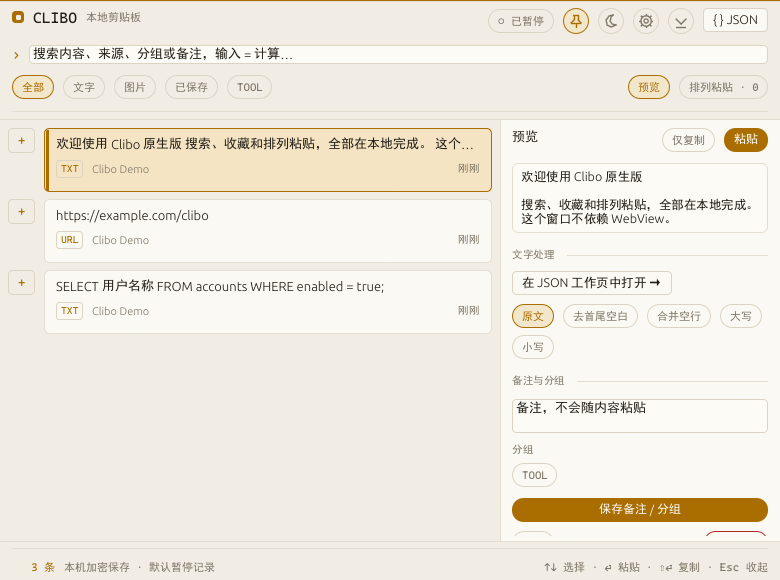
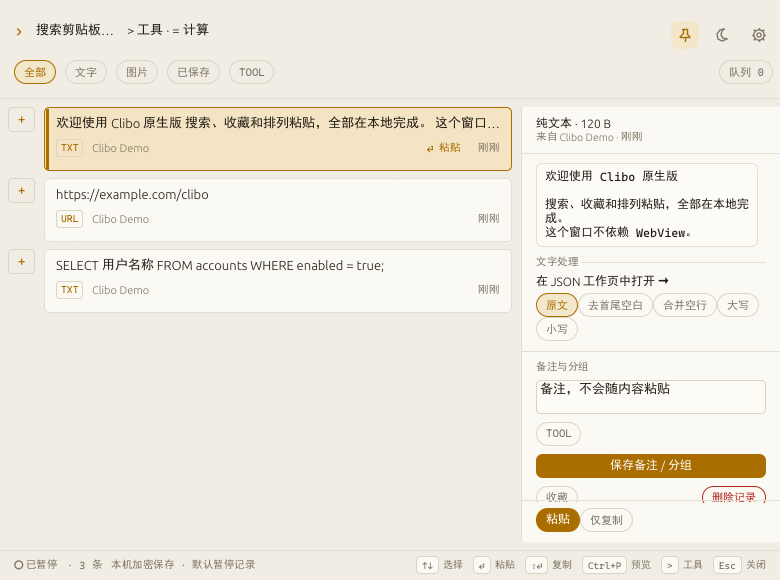
Update screenshots and README for new UI

diff --git a/README.en.md b/README.en.md
@@ -16,9 +16,10 @@ Current version: **0.5.0 native preview**.
 - Text tools for trimming whitespace, merging blank lines, and changing case.
 - A JSON workspace with validation, formatting, tree expand / collapse, nested-field search, and compact / formatted copy.
 - Global shortcuts, system tray, pinned panels, focus-loss hiding, and single-instance behavior.
+- A launcher (Alt + S) that discovers Start Menu apps and searches custom entries, files, folders, and browser bookmarks.
 - A temporary calculator entered by typing = in the search box.
 - Timestamp conversion for seconds / milliseconds, date-time values, UTC offsets, and batches.
-- Light / dark themes and image thumbnail previews.
+- Light / dark appearance with amber / blue-gray themes, image thumbnail previews, and a Ctrl+P preview drawer.
 - Manual history backup and restore, with a safety backup created before restoration.
 - Windows login startup without administrator privileges; Clibo can run in the tray after sign-in.
 
@@ -26,11 +27,16 @@ Current version: **0.5.0 native preview**.
 
 <p align="center">
   <img src="docs/images/clipboard.png" alt="Clipboard history" width="32%">
-  <img src="docs/images/calculator.png" alt="Calculator" width="32%">
   <img src="docs/images/json-format.png" alt="JSON formatting workspace" width="32%">
+  <img src="docs/images/launcher.png" alt="Launcher" width="32%">
+</p>
+<p align="center">
+  <img src="docs/images/calculator.png" alt="Calculator" width="32%">
+  <img src="docs/images/timestamp.png" alt="Timestamp conversion" width="32%">
+  <img src="docs/images/settings.png" alt="Preferences" width="32%">
 </p>
 
-Clipboard history, the temporary calculator, and the JSON workspace are native views; processing stays local.
+The clipboard panel, JSON workspace, launcher, calculator, timestamp converter, and preferences are native views; processing stays local.
 
 ## Download
 
@@ -42,7 +48,35 @@ Windows x64 users can download the [Clibo 0.5.0](https://github.com/wushuang3625
 2. Copy text, links, or images in any application.
 3. Press Ctrl + Shift + V to open Clibo.
 4. Search and select an entry. Press Enter to try pasting, or Shift + Enter to copy only.
-5. Change the panel and queue shortcuts in Preferences.
+5. Type > in the search box to enter command mode and open the JSON workspace, timestamp converter, launcher, or preferences.
+6. Change the panel and queue shortcuts in Preferences.
+
+## Launcher
+
+Press **Alt + S** to open the compact floating search box; you can also type > in the panel search box and pick “Launcher”, or use the tray menu. Press Alt + S or Esc again to dismiss it; clicking outside also hides it when the window is not pinned. The launcher is implemented natively by Clibo: it does not require Flow Launcher and does not include its plugin marketplace or third-party plugin runtime.
+
+| Input | Function |
+| --- | --- |
+| Name, keyword | Search apps, custom entries, files, and bookmarks; fuzzy English matching, Chinese substring matching, most recently used first |
+| `app name` | Search apps only |
+| `file keyword` | Search files / folders; optional Everything query |
+| Full path, `~`, `%USERPROFILE%` | Open a path, list matching children |
+| `bm name` | Search local Chrome, Edge, Brave, and Firefox bookmarks |
+| `g keyword` / `b keyword` / `bd keyword` | Google / Bing / Baidu web search; the browser opens only after execution |
+| `= 12*3` or `12*3` | Local calculation; Enter copies the result |
+| `sys keyword` | Windows settings, Task Manager, Recycle Bin, lock, shutdown, restart, and Clibo built-in tools |
+| `https://example.com` | Open the URL |
+
+- Select with ↑ / ↓ or Tab / Shift+Tab, open with Enter; Ctrl+Enter opens the containing folder, Ctrl+Shift+Enter requests an administrator launch.
+- Right-click a result to copy its path / URL, open the containing folder, or edit / delete a custom entry. Shutdown and restart are confirmed again in the UI.
+- Click the gear at the top right or press Ctrl+I to manage custom entries, search directories, and bookmark toggles. Custom entries, recents, search scope, and the Alt+S hotkey are stored in the local encrypted settings.
+- Files index the Desktop, Documents, and Downloads folders by default; up to 20 extra directories can be added. Each directory scans at most 12,000 items, 10 levels deep, for about 3 seconds, skipping hidden directories, links, and common build directories; limits are reported in the management page. It is not a full-disk content index.
+- Apps are discovered from the current user's and the common Start Menu. Apps load first in the background, then files and bookmarks; F5 refreshes the index, and file changes are not watched in real time.
+- Everything is optional: install and run Everything, put the official `es.exe` on PATH or in the Everything install directory, and `file` queries will use it as well. If the service is unavailable or times out, a notice appears and local results remain. It does not depend on Flow Launcher.
+- Alt+S can be changed in Clibo preferences; conflicts are reported when occupied, and other shortcuts keep working.
+- Development run: `cargo run --manifest-path native/Cargo.toml -- --launcher` (exit any existing instance sharing the data directory first).
+
+macOS keeps the application directory and local file search paths; Windows system actions and browser bookmark discovery are enabled on Windows only, and macOS has not been verified on a real device. There is currently no pinyin search, shell script execution, Flow plugin compatibility, or plugin marketplace.
 
 ## Data and privacy
 
